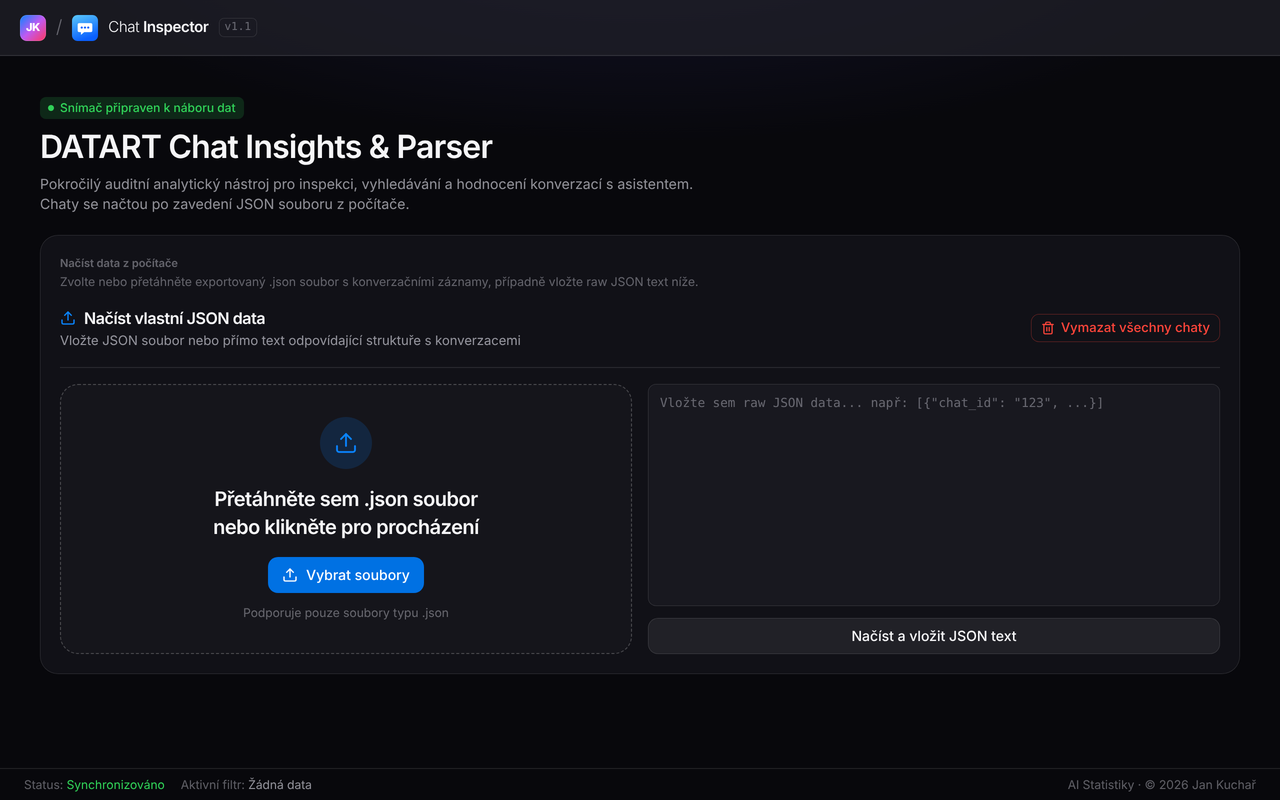
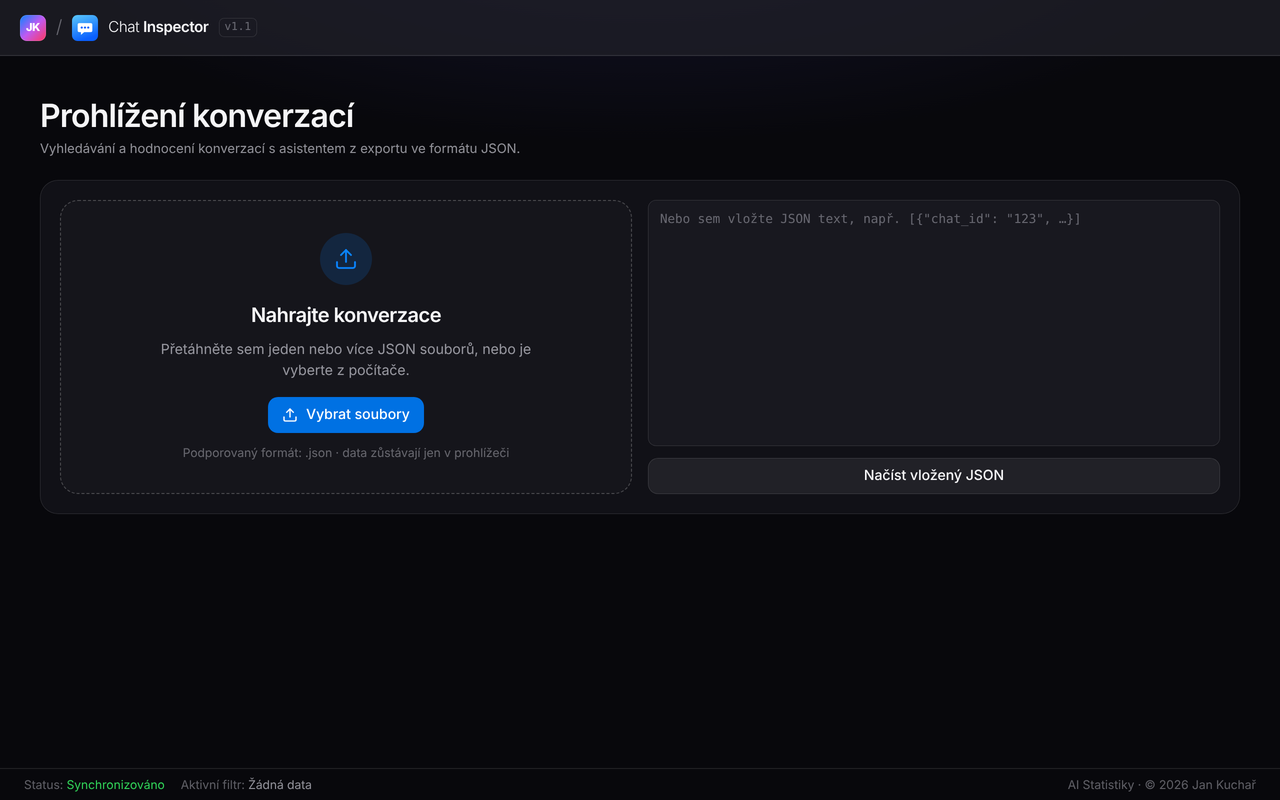
Simplify empty state copy
Single page title and one dropzone with heading, description, primary
button and note; importer header with reset only in the inline panel.

Claude-Session: https://claude.ai/code/session_012FZSdmAfFSefUG54ZSthdC

diff --git a/src/components/JSONImportExport.tsx b/src/components/JSONImportExport.tsx
@@ -164,6 +164,8 @@ export default function JSONImportExport({ onImport, onReset, onClose }: JSONImp
 
   return (
     <div className="@container">
+      {/* Header with actions only in the inline importer (data already loaded) */}
+      {onClose && (
       <div className="flex flex-col sm:flex-row justify-between items-start sm:items-center gap-3 pb-4 mb-4 border-b border-line">
         <div>
           <h2 className="text-base font-semibold tracking-tight flex items-center gap-2">
@@ -192,6 +194,7 @@ export default function JSONImportExport({ onImport, onReset, onClose }: JSONImp
           </button>
         </div>
       </div>
+      )}
 
       <div className="grid grid-cols-1 @2xl:grid-cols-2 gap-4">
         {/* Left column: Drag zone & File upload */}
@@ -220,14 +223,17 @@ export default function JSONImportExport({ onImport, onReset, onClose }: JSONImp
               <Upload className="w-6 h-6" strokeWidth={1.8} />
             </span>
             <p className="text-xl font-semibold tracking-tight text-balance mt-1.5">
-              Přetáhněte sem .json soubor nebo klikněte pro procházení
+              Nahrajte konverzace
+            </p>
+            <p className="text-fg-muted max-w-[46ch]">
+              Přetáhněte sem jeden nebo více JSON souborů, nebo je vyberte z počítače.
             </p>
             <button type="button" className="btn btn-primary mt-1.5">
               <Upload />
               Vybrat soubory
             </button>
             <p className="text-xs text-fg-subtle mt-0.5">
-              Podporuje pouze soubory typu .json
+              Podporovaný formát: .json · data zůstávají jen v prohlížeči
             </p>
           </div>
         </div>
@@ -237,14 +243,14 @@ export default function JSONImportExport({ onImport, onReset, onClose }: JSONImp
           <textarea
             value={inputText}
             onChange={(e) => setInputText(e.target.value)}
-            placeholder='Vložte sem raw JSON data... např: [{"chat_id": "123", ...}]'
+            placeholder='Nebo sem vložte JSON text, např. [{"chat_id": "123", …}]'
             className="input h-auto min-h-[200px] flex-1 py-2.5 font-mono text-[12.5px] resize-none"
           />
           <button
             onClick={handleTextSubmit}
             className="btn btn-secondary w-full"
           >
-            Načíst a vložit JSON text
+            Načíst vložený JSON
           </button>
         </div>
       </div>

diff --git a/src/App.tsx b/src/App.tsx
@@ -724,27 +724,19 @@ export default function App() {
         /* Startup Landing Page */
         <div className="flex-1 overflow-y-auto px-4 sm:px-6 py-7 sm:py-10">
           <div className="max-w-[1200px] mx-auto w-full space-y-5 select-none">
-            {/* Headline & Branding */}
-            <div className="space-y-2">
-              <span className="badge badge-dot b-ok">
-                Snímač připraven k náboru dat
-              </span>
+            {/* Headline */}
+            <div className="space-y-1">
               <h2 className="text-2xl sm:text-[32px] leading-tight font-semibold tracking-tight">
-                DATART Chat Insights & Parser
+                Prohlížení konverzací
               </h2>
-              <p className="text-[13px] sm:text-sm text-fg-muted max-w-2xl">
-                Pokročilý auditní analytický nástroj pro inspekci, vyhledávání a hodnocení konverzací s asistentem. Chaty se načtou po zavedení JSON souboru z počítače.
+              <p className="text-[13px] text-fg-muted max-w-2xl">
+                Vyhledávání a hodnocení konverzací s asistentem z exportu ve formátu JSON.
               </p>
             </div>
 
             {/* Direct JSON Import/Upload Panel */}
             <div className="w-full">
               <div className="panel p-4 sm:p-5">
-                <div className="space-y-0.5 mb-4">
-                  <h3 className="section-label">Načíst data z počítače</h3>
-                  <p className="text-xs text-fg-subtle">Zvolte nebo přetáhněte exportovaný .json soubor s konverzačními záznamy, případně vložte raw JSON text níže.</p>
-                </div>
-                
                 <JSONImportExport onImport={handleImportChats} onReset={handleResetToDefault} />
               </div>
             </div>
